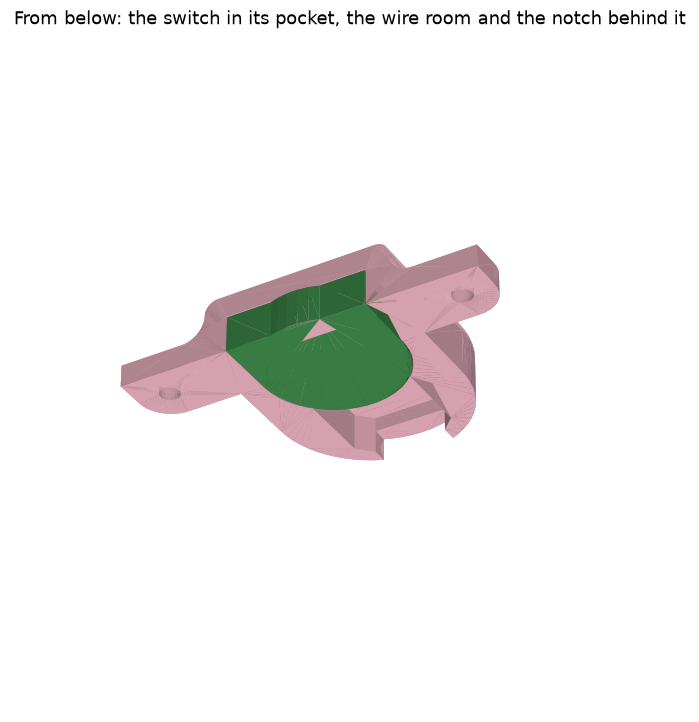
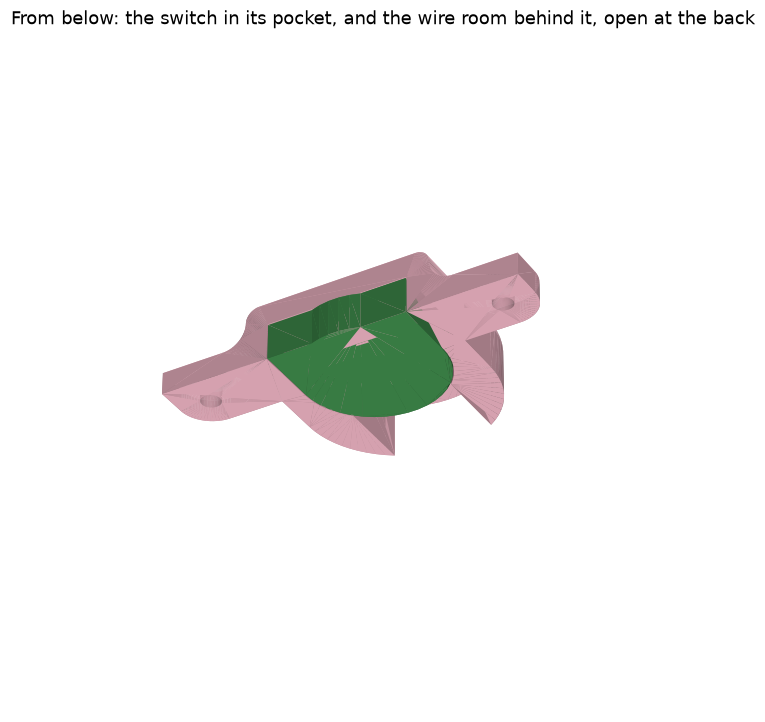
door-switch-clamp: a wire room open at the back, and 3 mm higher
The wiring behind the switch is thick. The wire room is open at the back
over its whole width and height, 22.2 × 11.2 mm, in place of the notch in
a back wall. Its ceiling rises at 45° behind the switch, under a 2 mm top.
Not printed yet.

Changed region(s): [[0.1502, 0.3352, 0.721, 0.6399], [0.0, 0.0, 0.9914, 0.0609], [0.3906, 0.5789, 0.4206, 0.6094]]

diff --git a/parts/door-switch-clamp/part.py b/parts/door-switch-clamp/part.py
@@ -2,8 +2,8 @@
 its wires.
 
 The case goes over the switch and is screwed down through a wing on either side. The switch's front stays open, flush
-with the case's front, for the door. Behind the switch the case has a room for the wires, which leave through a notch
-in the back wall.
+with the case's front, for the door. Behind the switch the case covers a room for the wires, which is open at the
+back over its whole width and height.
 
 Every size is a named constant below. Coordinates: x across, y deep from the open front to the back, z up from the
 surface the switch is mounted on.
@@ -34,10 +34,10 @@ SWITCH_WIDTH = 31  # the switch, across, the user's measurement
 SWITCH_DEPTH = 30  # the switch, front to back, its round back included, the user's measurement
 SWITCH_HEIGHT = 8  # the switch, up from the surface, the user's measurement
 SLIDE = 0.2  # a side, round the switch and over it: the case slides over it
-WALL = 5  # the case's side walls, its back wall and its top
-WIRE_ROOM = 15  # the room behind the switch for its wires, front to back
-WIRE_END = 16  # the wire room's flat back end, across, which is also the notch's width
-NOTCH_HEIGHT = 5  # the notch in the back wall that a bunch of loose wires leaves through, up from the surface
+WALL = 5  # the case's side walls and its top
+WIRE_ROOM = 15  # the room behind the switch for its wires, front to back, open at the back
+WIRE_ROOF = 2  # the case's top over the wire room, which is higher than the pocket; it carries no load
+EDGE = 1.2  # the least the top is thick at the wire room's opening, where the top rounds over: three lines of the nozzle
 SLOPE = 45  # degrees from upright, the steepest the inside closes in at, so it prints standing without supports
 TOP_ROUND = 3  # the radius the case's top rounds over to its sides with
 WING_THICK = 5  # a wing, up from the surface
@@ -51,13 +51,17 @@ POCKET_Y = SWITCH_DEPTH - SWITCH_WIDTH / 2  # the middle of the switch's round b
 INSIDE = SWITCH_HEIGHT + SLIDE  # the pocket and the wire room, up from the surface
 HALF = POCKET + WALL  # half the case across, and the radius of its round back
 HEIGHT = INSIDE + WALL  # the case's top
-WIRE_BACK = SWITCH_DEPTH + SLIDE + WIRE_ROOM  # the wire room's back end
-BACK = WIRE_BACK + WALL  # the case's back
+BACK = SWITCH_DEPTH + SLIDE + WIRE_ROOM  # the case's back, where the wire room is open
 ROUND_Y = BACK - HALF  # the middle of the case's round back, front to back
 # The wire room is narrower than the switch, so the pocket's round back stays as a shoulder on either side that the
 # switch's back rests against. It is as wide as it can be with that shoulder no steeper than SLOPE.
 WIRE_HALF = POCKET * math.cos(math.radians(SLOPE))
-WIRE_TAPER = WIRE_BACK - (WIRE_HALF - WIRE_END / 2) * math.tan(math.radians(SLOPE))  # where it starts to narrow to its end
+WIRE_INSIDE = HEIGHT - WIRE_ROOF  # the wire room's ceiling, up from the surface
+RISE_Y = SWITCH_DEPTH + SLIDE  # where the ceiling starts to rise from the pocket's to the wire room's, behind the switch
+RISE = (WIRE_INSIDE - INSIDE) / math.tan(math.radians(SLOPE))  # how far back it rises over, at SLOPE
+# The case's top rounds over at the back, so it thins toward its edge over the wire room. The top ends over the
+# opening where it is EDGE thick, this far from the middle of the case's round back.
+EDGE_AT = HALF - TOP_ROUND + math.sqrt(TOP_ROUND**2 - (WIRE_INSIDE + EDGE - (HEIGHT - TOP_ROUND)) ** 2)
 FILLET = HEIGHT - WING_THICK - TOP_ROUND  # the radius the case's side curves down to a wing with
 WING_DEPTH = HEAD + 2 * WING_RIM  # a wing, front to back
 SCREW_X = HALF + FILLET + WING_DEPTH / 2  # a screw, from the middle of the case
@@ -68,8 +72,9 @@ SEAT = HEAD / 2 + FITS.screw_hole  # the radius of the cone seat at the wing's t
 SEAT_DEPTH = (SEAT - SHAFT) / math.tan(math.radians(HEAD_ANGLE / 2))  # the cone seat, down from the wing's top
 VIEWS = (
     *plate.ANGLE,
-    ("under.png", -35, -60, "From below: the switch in its pocket, the wire room and the notch behind it"),
+    ("under.png", -35, -60, "From below: the switch in its pocket, and the wire room behind it, open at the back"),
     ("front.png", 0, -90, "From the front: the case curves down to the wings"),
+    ("back.png", 20, 110, "From behind: the wire room's opening"),
 )
 
 
@@ -110,17 +115,25 @@ def wing():
 
 
 def inside():
-    """What the case is hollow for: the pocket the switch sits in, the wire room behind it and the notch."""
+    """What the case is hollow for: the pocket the switch sits in, and the wire room behind it, which runs out
+    through the case's back and is higher than the pocket."""
     pocket = Pos(0, -CUT) * Rectangle(2 * POCKET, POCKET_Y + CUT, align=(Align.CENTER, Align.MIN)) + Pos(0, POCKET_Y) * Circle(POCKET)
-    # The wire room narrows to its flat end at SLOPE, so it prints standing without supports.
-    room = Polygon(
-        (-WIRE_HALF, POCKET_Y), (WIRE_HALF, POCKET_Y), (WIRE_HALF, WIRE_TAPER),
-        (WIRE_END / 2, WIRE_BACK), (-WIRE_END / 2, WIRE_BACK), (-WIRE_HALF, WIRE_TAPER),
+    room = Pos(0, POCKET_Y) * Rectangle(2 * WIRE_HALF, BACK + CUT - POCKET_Y, align=(Align.CENTER, Align.MIN))
+    hollow = Pos(0, 0, -CUT) * extrude(pocket + room, INSIDE + CUT)
+    # The ceiling rises behind the switch at SLOPE, so it prints standing without supports. From the side: the
+    # sketch's x is the part's y, and its y the part's z.
+    side = Polygon(
+        (RISE_Y, INSIDE - CUT), (RISE_Y, INSIDE), (RISE_Y + RISE, WIRE_INSIDE),
+        (BACK + CUT, WIRE_INSIDE), (BACK + CUT, INSIDE - CUT),
         align=None,
     )
-    hollow = Pos(0, 0, -CUT) * extrude(pocket + room, INSIDE + CUT)
-    notch = Pos(0, WIRE_BACK - CUT, -CUT) * Box(WIRE_END, WALL + 2 * CUT, NOTCH_HEIGHT + CUT, align=(Align.CENTER, Align.MIN, Align.MIN))
-    return hollow + notch
+    high = extrude(Plane.YZ * side, WIRE_HALF, both=True)
+    # The top's thin edge over the opening: everything past EDGE_AT, as wide as the wire room.
+    past = Pos(0, ROUND_Y, -CUT) * (
+        Box(2 * WIRE_HALF, HALF + CUT, HEIGHT + 2 * CUT, align=(Align.CENTER, Align.MIN, Align.MIN))
+        - Cylinder(EDGE_AT, HEIGHT + 2 * CUT, align=MIN)
+    )
+    return hollow + high + past
 
 
 def clamp():

diff --git a/parts/door-switch-clamp/README.md b/parts/door-switch-clamp/README.md
@@ -9,6 +9,8 @@ wires. The case goes over the switch and is screwed down through a wing on eithe
 
 ![From the front](pictures/front.png)
 
+![From behind](pictures/back.png)
+
 ## Parts
 
 | Printed | Count | Prints | Supports |
@@ -20,36 +22,39 @@ wires. The case goes over the switch and is screwed down through a wing on eithe
 | The door switch, 31 × 30 × 8 mm, with a half-round back | 1 | In the house |
 | Countersunk chipboard screw, 4 mm, Phillips, 8 mm head (DIN 7997), 16 mm or longer | 2 | Hardware store |
 
-The clamp is 79.8 mm wide, 50.2 mm deep and 13.2 mm high.
+The clamp is 79.8 mm wide, 44.2 mm deep and 13.2 mm high.
 
 The pocket is the switch with 0.2 mm a side and 0.2 mm over it. The switch's front stays open,
 flush with the case's front, for the door. The pocket's back is round like the switch's.
 
-The wire room behind the switch is 15 mm deep and as high as the pocket. It is 22.2 mm wide,
-narrower than the switch, so the pocket's round back stays as a shoulder on either side. The
-switch rests against the shoulders when the door pushes it. The room narrows to a flat end 16 mm
-wide. A notch in the back wall at that end, 16 mm wide and 5 mm high, lets a bunch of loose wires
-out along the surface.
+The wire room behind the switch is 22.2 mm wide, narrower than the switch, so the pocket's round
+back stays as a shoulder on either side. The switch rests against the shoulders when the door
+pushes it. The room is 11.2 mm high, 3 mm more than the pocket: its ceiling rises at 45° behind
+the switch. The room is open at the back over its whole width and height, 22.2 × 11.2 mm, and the
+wires leave through that opening. The case's top covers 14 mm of them behind the switch.
 
-The case's walls and its top are 5 mm thick, 3.1 mm at the two corners of the wire room's end.
-The case is round at the back, like the switch. Its top rounds over to its sides with a 3 mm
-radius, and each side curves down to a wing with a 5.2 mm radius.
+The case's side walls are 5 mm thick, and its top is 5 mm over the switch and 2 mm over the wire
+room, where it carries no load. The case is round at the back, like the switch, and the wire
+room's opening cuts through that round. Its top rounds over to its sides with a 3 mm radius, and
+each side curves down to a wing with a 5.2 mm radius. Over the opening the top ends 1 mm short of
+the round's edge, where it is 1.2 mm thick.
 
 The wings are at the front, 5 mm thick and 14 mm deep, and reach 19.2 mm out from the case. Each
 has a hole for a 4 mm screw, 7 mm from the front and 32.9 mm from the middle of the case, with a
 90° cone seat that takes the 8 mm head flush with the wing's top. The hole's clearance is
 `screw_hole` from `printers.toml`. The screws hold 3 mm of wing under their heads.
 
-The clamp stands on its open front when it prints. The pocket's shoulders and the wire room's end
-close in at 45° from upright, and the flat end is a 16 mm bridge. The screw holes lie on their
+The clamp stands on its open front when it prints. The pocket's shoulders close in at 45° from
+upright, the wire room's ceiling steps back at 45°, and the wire room runs straight up and out of
+the top. The screw holes lie on their
 sides, 8.3 mm across at their widest. Nothing takes supports. The layers stand along the wings,
 so a screw bends its wing along the layers and not across them.
 
 ## Putting it together
 
-1. Lay the wires side by side behind the switch, on the surface.
+1. Lay the wires straight back behind the switch, on the surface.
 2. Put the clamp over the switch from above, its open front flush with the switch's front and the
-   wires in the notch.
+   wires in the wire room.
 3. Drive a screw down through each wing. Both are reached from above, beside the case.
 
 Taking it off is the same in reverse.
